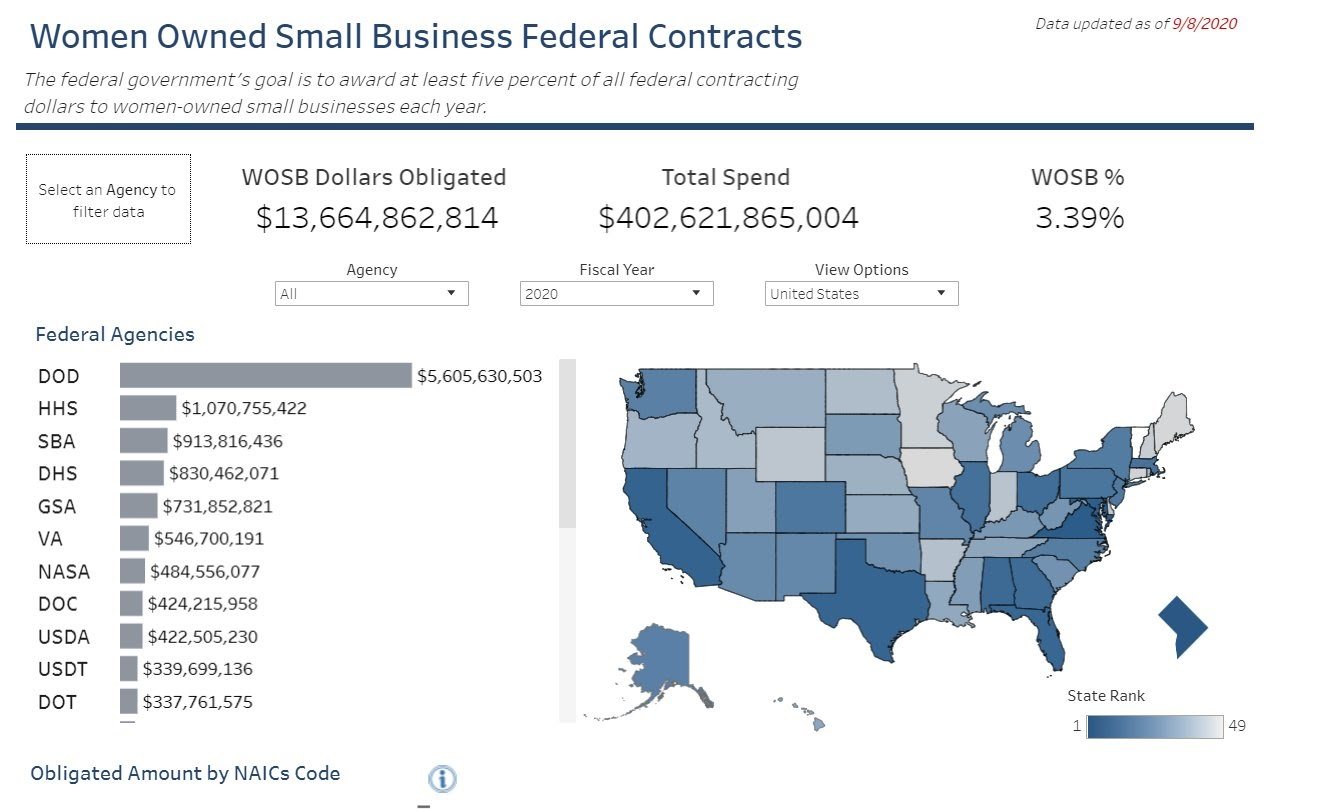
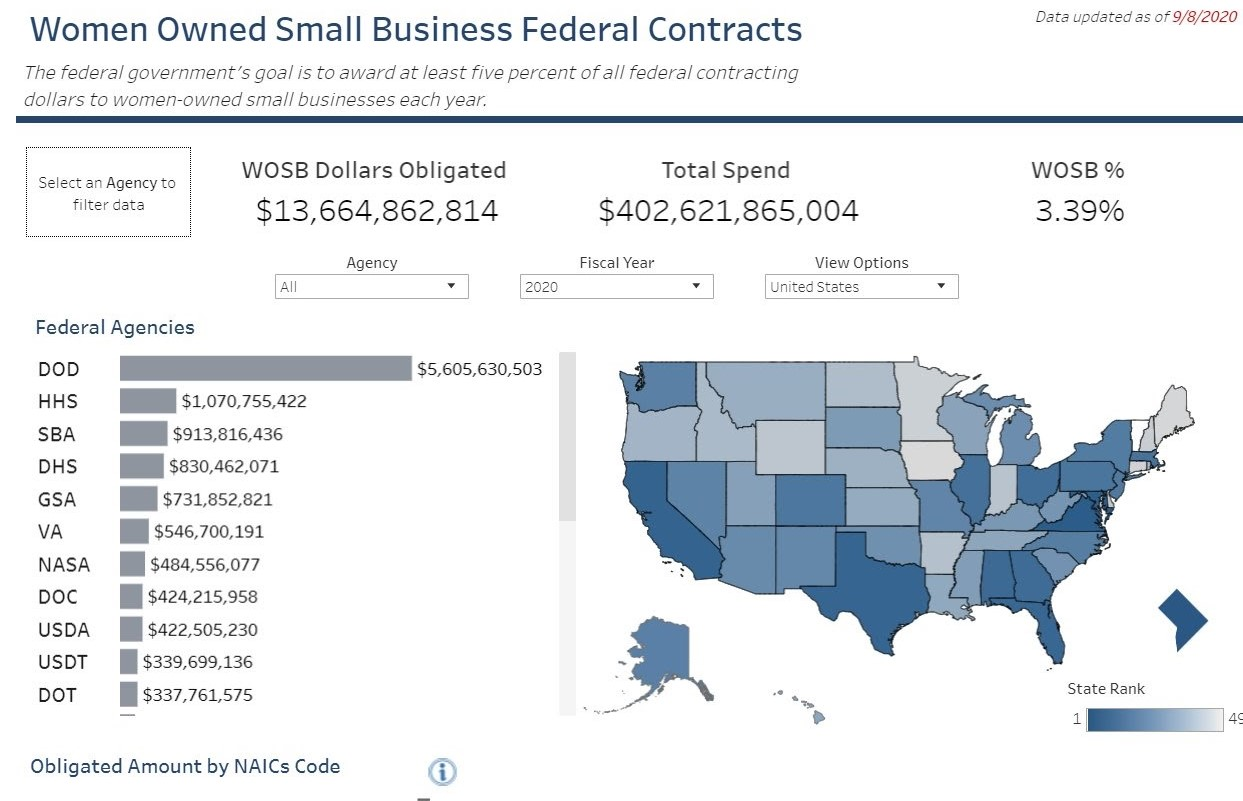
image change

diff --git a/_posts/2020-10-26-sba-wosb-dashboard.md b/_posts/2020-10-26-sba-wosb-dashboard.md
@@ -14,7 +14,7 @@ description: In honor of National Women’s Small Business Month, we’ve partne
 
 excerpt: In honor of National Women’s Small Business Month, we’ve partnered with SBA’s Office of Government Contracting and Business Development and Office of Program Performance, Analysis, and Evaluation to highlight the Women-Owned Small Businesses (WOSBs) data dashboard!
 
-image: "/img/blog/wosb3.jpg"
+image: "/img/blog/wosb1.jpg"
 image_accessibility: Screenshot of Women-Owned Small Business dashboard
 
 authors:
